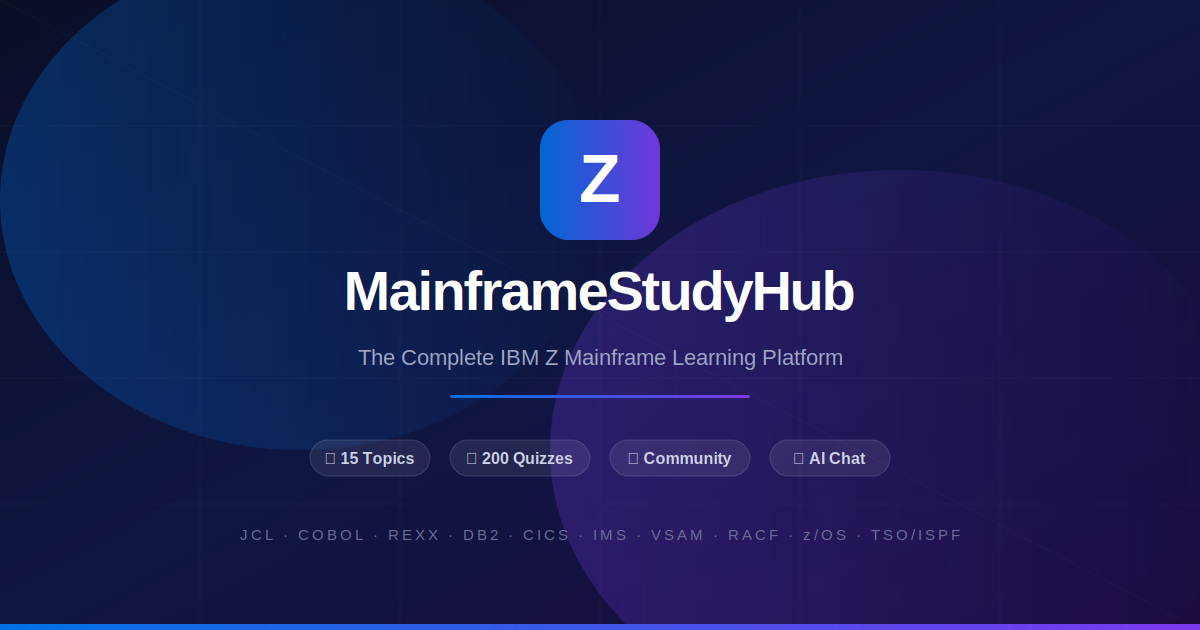
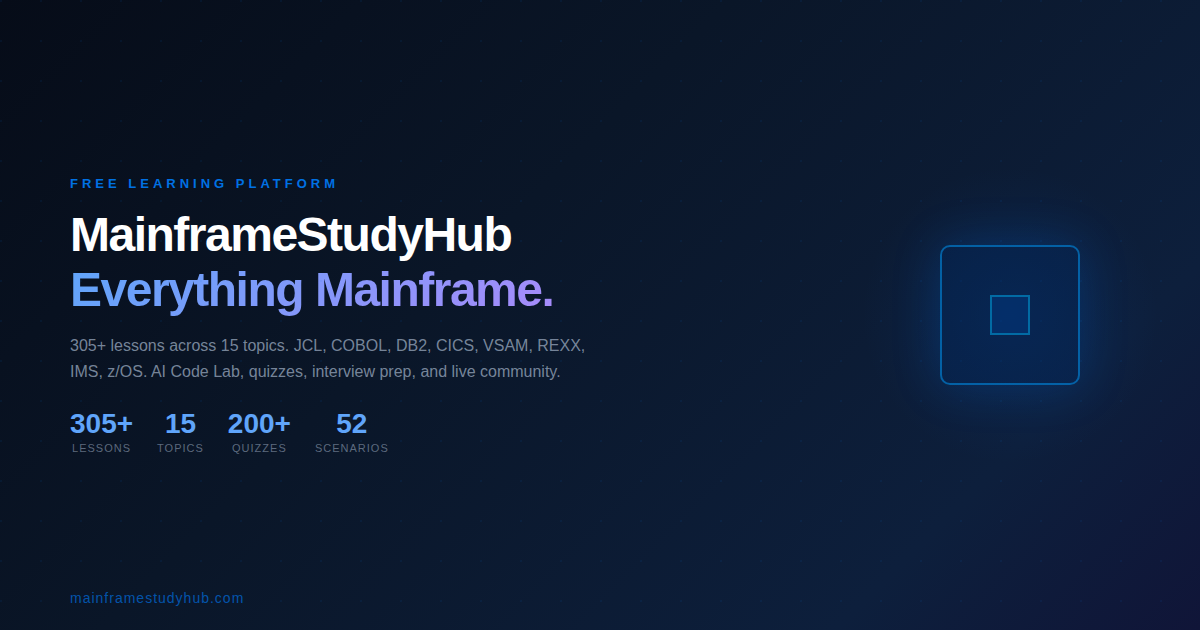
Fix OG meta tags + updated OG image with 305+ lessons

diff --git a/dist/index.html b/dist/index.html
@@ -15,9 +15,9 @@
 
     <!-- Primary Meta -->
     <title>MainframeStudyHub — IBM Z Mainframe Learning Platform</title>
-    <meta name="description" content="MainframeStudyHub — Free IBM Z mainframe learning platform. Master JCL, COBOL, DB2, CICS, VSAM, RACF, z/OS with 200 quizzes, abend solver, and AI chat." />
+    <meta name="description" content="MainframeStudyHub — Free IBM Z mainframe learning platform. 305+ lessons across 15 topics: JCL, COBOL, DB2, CICS, VSAM, REXX, IMS, z/OS, RACF. AI Code Lab, 200+ quizzes, interview Q&A, cheat sheets." />
     <meta name="keywords" content="mainframe, IBM Z, z/OS, JCL, COBOL, REXX, DB2, CICS, IMS, VSAM, RACF, TSO, ISPF, mainframe learning, mainframe tutorial, mainframe training, IBM mainframe" />
-    <meta name="author" content="MainframeStudyHub" />
+    <meta name="author" content="Harikrishnan K" />
     <meta name="robots" content="index, follow" />
     <link rel="canonical" href="https://mainframestudyhub.com" />
 
@@ -41,20 +41,23 @@
     <!-- Open Graph (Facebook, LinkedIn, Slack, etc.) -->
     <meta property="og:type" content="website" />
     <meta property="og:site_name" content="MainframeStudyHub" />
-    <meta property="og:title" content="MainframeStudyHub — IBM Z Mainframe Learning Platform" />
-    <meta property="og:description" content="MainframeStudyHub — Free IBM Z mainframe learning platform. Master JCL, COBOL, DB2, CICS, VSAM, RACF, z/OS with 200 quizzes, abend solver, and AI chat." />
+    <meta property="og:title" content="MainframeStudyHub — Free IBM Z Mainframe Learning Platform" />
+    <meta property="og:description" content="305+ lessons across 15 topics. JCL, COBOL, DB2, CICS, VSAM, REXX, IMS, z/OS, RACF. AI Code Lab, 200+ quizzes, interview Q&A, cheat sheets, and live community. Free forever." />
     <meta property="og:url" content="https://mainframestudyhub.com" />
     <meta property="og:image" content="https://mainframestudyhub.com/og-image.png" />
+    <meta property="og:image:type" content="image/png" />
     <meta property="og:image:width" content="1200" />
     <meta property="og:image:height" content="630" />
-    <meta property="og:image:alt" content="MainframeStudyHub — The Complete IBM Z Learning Platform" />
+    <meta property="og:image:alt" content="MainframeStudyHub — The Complete IBM Z Learning Platform with 305+ Lessons" />
     <meta property="og:locale" content="en_US" />
+    <meta property="article:author" content="Harikrishnan K" />
 
     <!-- Twitter Card -->
     <meta name="twitter:card" content="summary_large_image" />
-    <meta name="twitter:title" content="MainframeStudyHub — IBM Z Mainframe Learning Platform" />
-    <meta name="twitter:description" content="Learn IBM Z mainframe — JCL, COBOL, DB2, CICS, VSAM, RACF, z/OS. 200 quizzes, abend solver, AI chat, and community Q&A." />
+    <meta name="twitter:title" content="MainframeStudyHub — Free IBM Z Mainframe Learning Platform" />
+    <meta name="twitter:description" content="305+ lessons across 15 topics. JCL, COBOL, DB2, CICS, VSAM. AI Code Lab, quizzes, interview Q&A, cheat sheets. Free forever." />
     <meta name="twitter:image" content="https://mainframestudyhub.com/og-image.png" />
+    <meta name="twitter:creator" content="@harikrishnan_k" />
 
     <!-- Structured Data (JSON-LD) -->
     <script type="application/ld+json">
@@ -64,7 +67,7 @@
       "name": "MainframeStudyHub",
       "alternateName": "Mainframe Study Hub",
       "url": "https://mainframestudyhub.com",
-      "description": "The complete IBM Z mainframe learning platform with tutorials, quizzes, community Q&A, and AI assistance.",
+      "description": "The complete IBM Z mainframe learning platform with 305+ lessons, quizzes, community Q&A, and AI assistance.",
       "inLanguage": "en",
       "potentialAction": {
         "@type": "SearchAction",

diff --git a/index.html b/index.html
@@ -15,9 +15,9 @@
 
     <!-- Primary Meta -->
     <title>MainframeStudyHub — IBM Z Mainframe Learning Platform</title>
-    <meta name="description" content="MainframeStudyHub — Free IBM Z mainframe learning platform. Master JCL, COBOL, DB2, CICS, VSAM, RACF, z/OS with 200 quizzes, abend solver, and AI chat." />
+    <meta name="description" content="MainframeStudyHub — Free IBM Z mainframe learning platform. 305+ lessons across 15 topics: JCL, COBOL, DB2, CICS, VSAM, REXX, IMS, z/OS, RACF. AI Code Lab, 200+ quizzes, interview Q&A, cheat sheets." />
     <meta name="keywords" content="mainframe, IBM Z, z/OS, JCL, COBOL, REXX, DB2, CICS, IMS, VSAM, RACF, TSO, ISPF, mainframe learning, mainframe tutorial, mainframe training, IBM mainframe" />
-    <meta name="author" content="MainframeStudyHub" />
+    <meta name="author" content="Harikrishnan K" />
     <meta name="robots" content="index, follow" />
     <link rel="canonical" href="https://mainframestudyhub.com" />
 
@@ -41,20 +41,23 @@
     <!-- Open Graph (Facebook, LinkedIn, Slack, etc.) -->
     <meta property="og:type" content="website" />
     <meta property="og:site_name" content="MainframeStudyHub" />
-    <meta property="og:title" content="MainframeStudyHub — IBM Z Mainframe Learning Platform" />
-    <meta property="og:description" content="MainframeStudyHub — Free IBM Z mainframe learning platform. Master JCL, COBOL, DB2, CICS, VSAM, RACF, z/OS with 200 quizzes, abend solver, and AI chat." />
+    <meta property="og:title" content="MainframeStudyHub — Free IBM Z Mainframe Learning Platform" />
+    <meta property="og:description" content="305+ lessons across 15 topics. JCL, COBOL, DB2, CICS, VSAM, REXX, IMS, z/OS, RACF. AI Code Lab, 200+ quizzes, interview Q&A, cheat sheets, and live community. Free forever." />
     <meta property="og:url" content="https://mainframestudyhub.com" />
     <meta property="og:image" content="https://mainframestudyhub.com/og-image.png" />
+    <meta property="og:image:type" content="image/png" />
     <meta property="og:image:width" content="1200" />
     <meta property="og:image:height" content="630" />
-    <meta property="og:image:alt" content="MainframeStudyHub — The Complete IBM Z Learning Platform" />
+    <meta property="og:image:alt" content="MainframeStudyHub — The Complete IBM Z Learning Platform with 305+ Lessons" />
     <meta property="og:locale" content="en_US" />
+    <meta property="article:author" content="Harikrishnan K" />
 
     <!-- Twitter Card -->
     <meta name="twitter:card" content="summary_large_image" />
-    <meta name="twitter:title" content="MainframeStudyHub — IBM Z Mainframe Learning Platform" />
-    <meta name="twitter:description" content="Learn IBM Z mainframe — JCL, COBOL, DB2, CICS, VSAM, RACF, z/OS. 200 quizzes, abend solver, AI chat, and community Q&A." />
+    <meta name="twitter:title" content="MainframeStudyHub — Free IBM Z Mainframe Learning Platform" />
+    <meta name="twitter:description" content="305+ lessons across 15 topics. JCL, COBOL, DB2, CICS, VSAM. AI Code Lab, quizzes, interview Q&A, cheat sheets. Free forever." />
     <meta name="twitter:image" content="https://mainframestudyhub.com/og-image.png" />
+    <meta name="twitter:creator" content="@harikrishnan_k" />
 
     <!-- Structured Data (JSON-LD) -->
     <script type="application/ld+json">
@@ -64,7 +67,7 @@
       "name": "MainframeStudyHub",
       "alternateName": "Mainframe Study Hub",
       "url": "https://mainframestudyhub.com",
-      "description": "The complete IBM Z mainframe learning platform with tutorials, quizzes, community Q&A, and AI assistance.",
+      "description": "The complete IBM Z mainframe learning platform with 305+ lessons, quizzes, community Q&A, and AI assistance.",
       "inLanguage": "en",
       "potentialAction": {
         "@type": "SearchAction",
